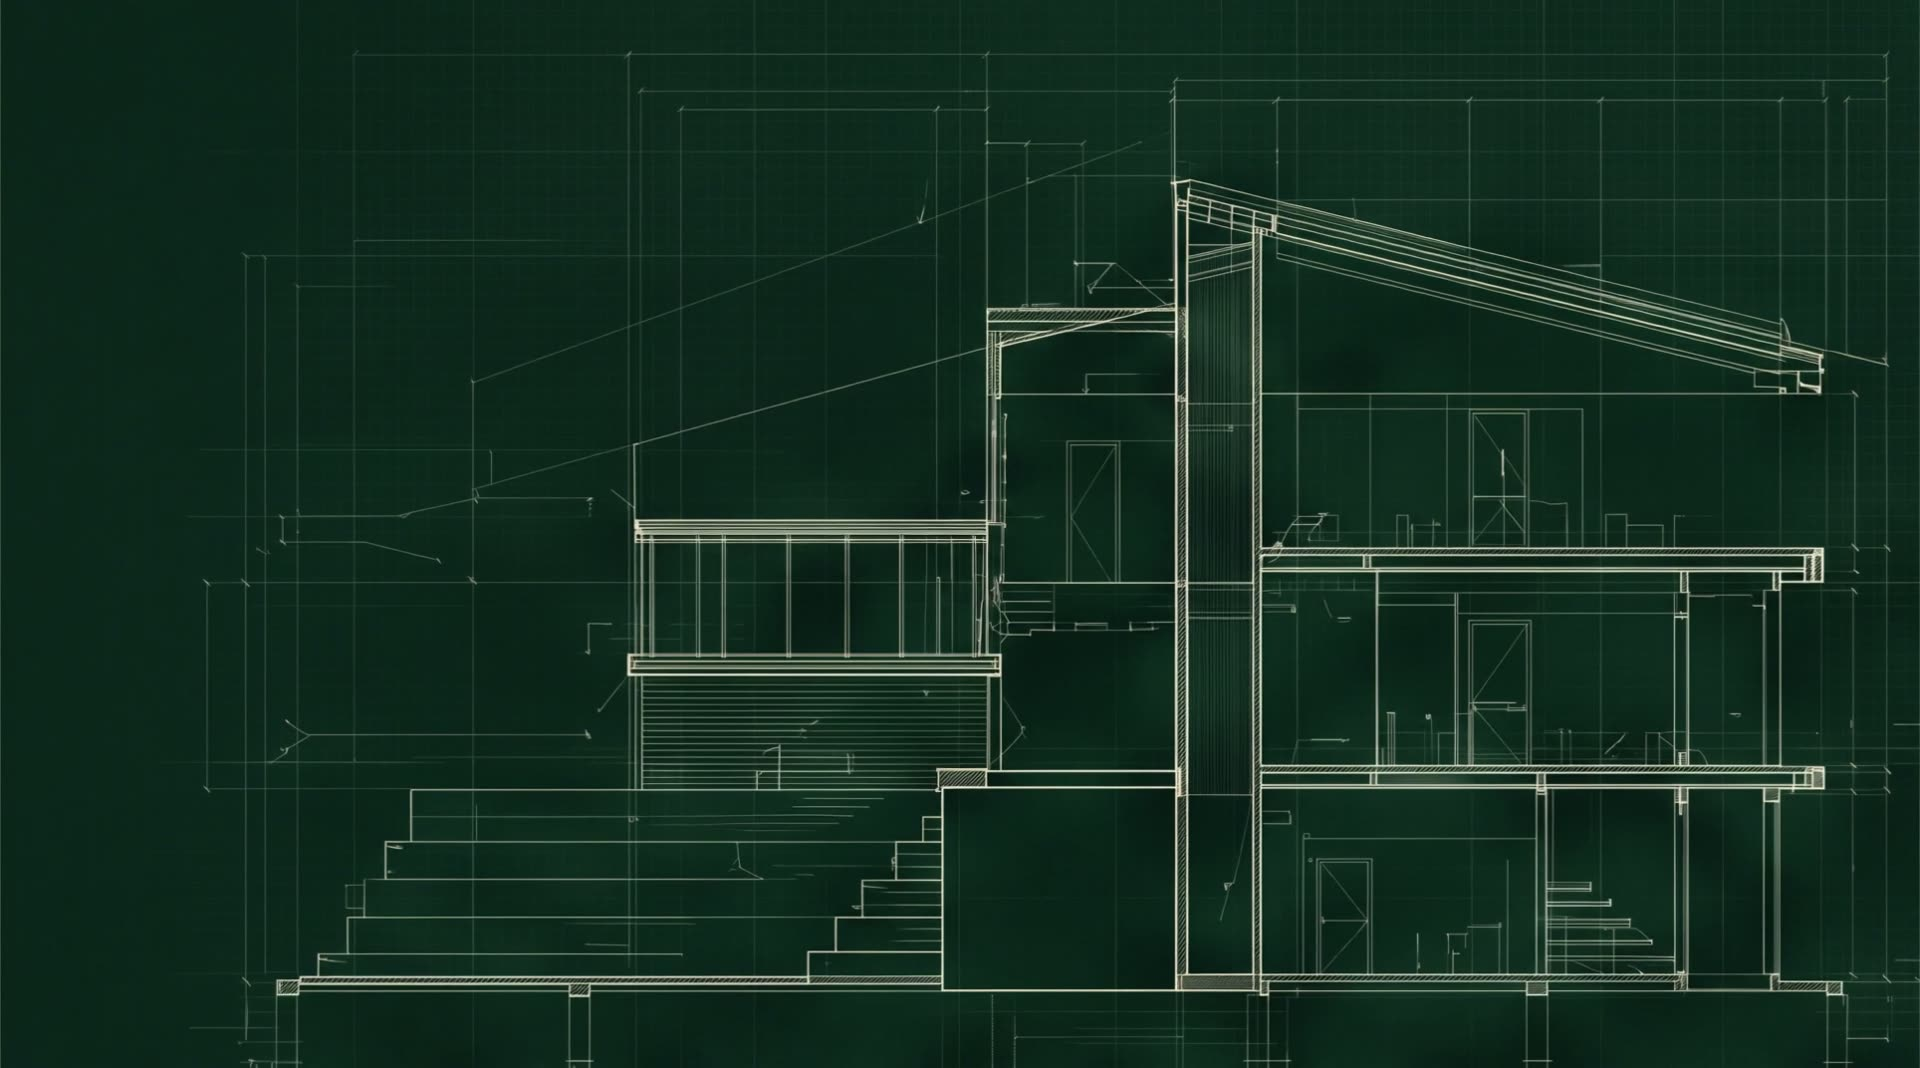
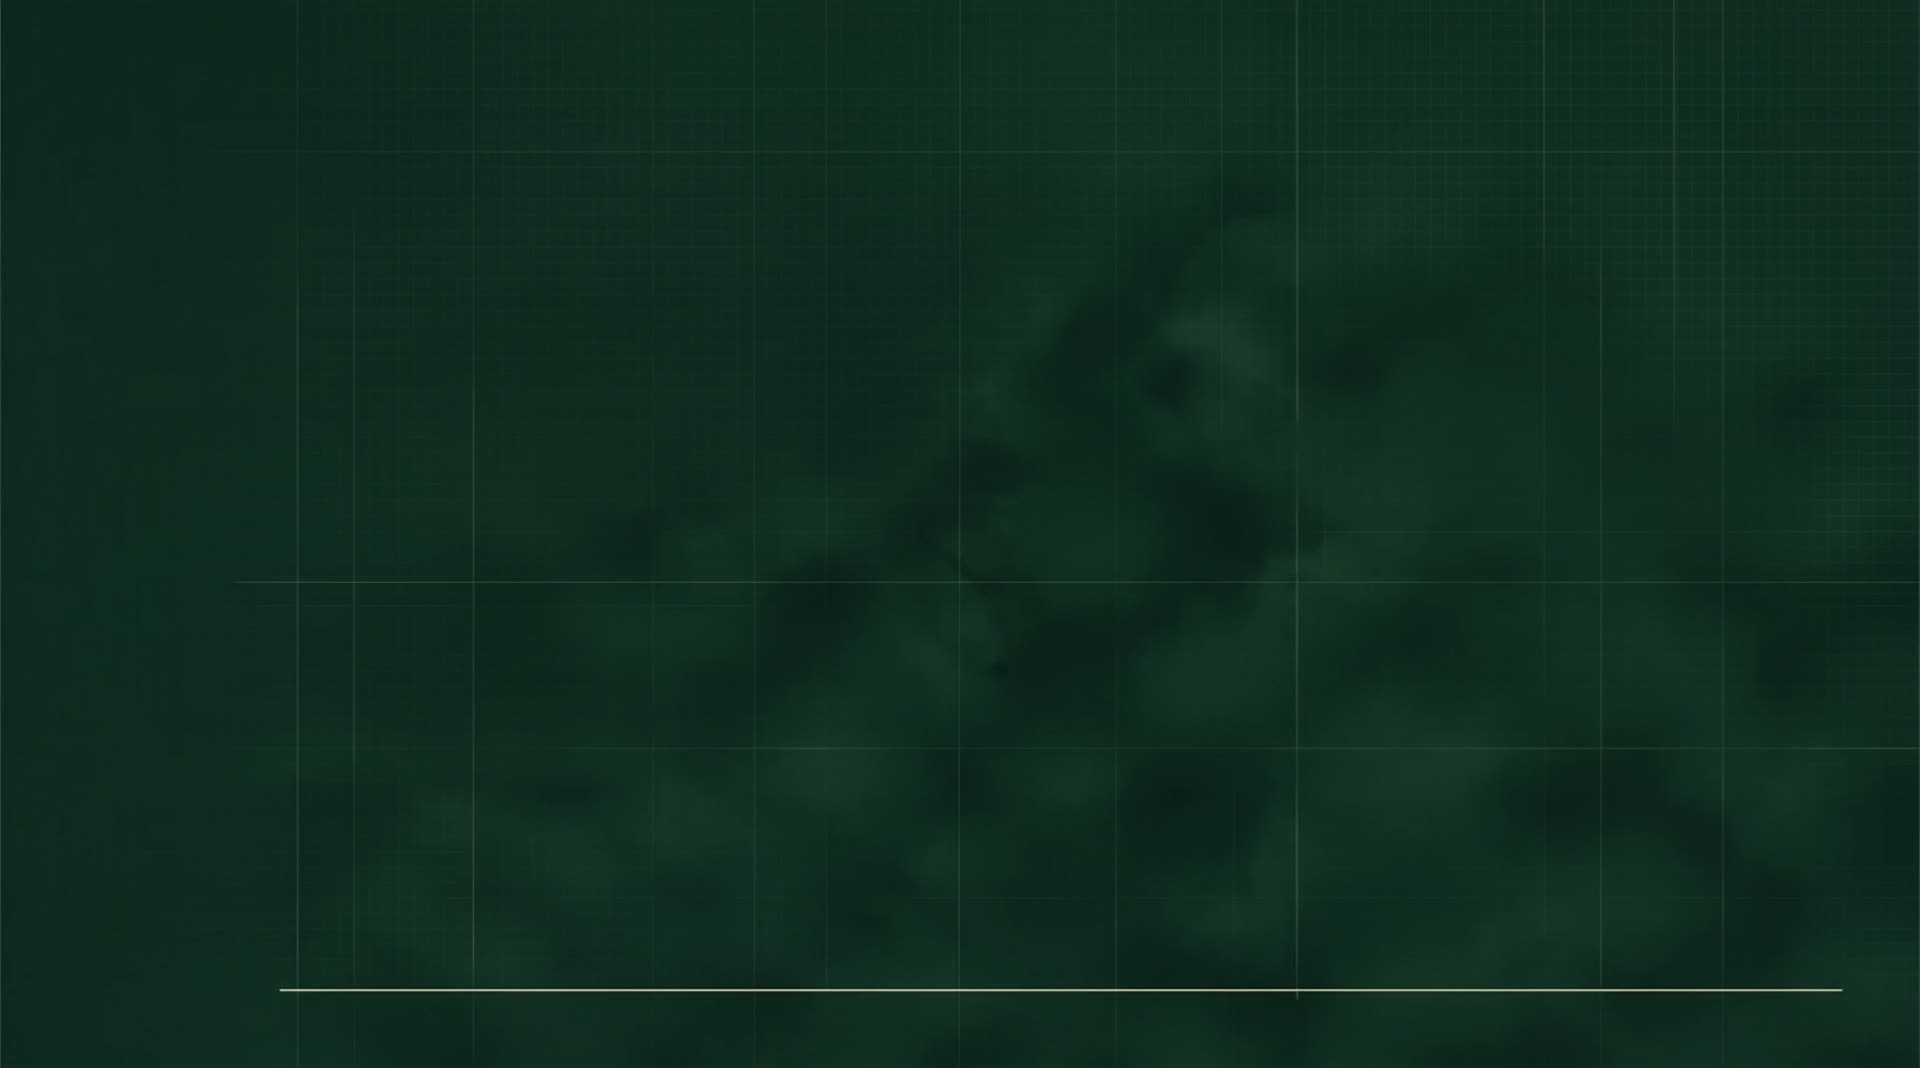
fix(intro): correctifs de la relecture de branche
Critique — ?intro=1 ne rallumait pas l'intro livrée éteinte : le test
!enabled passait avant l'override, rendant la feature injoignable alors
qu'un commentaire affirmait le contraire. Précédence corrigée et testée.

Critique — une erreur dans l'intro remontait à [locale]/error.tsx et
remplaçait la landing par un 500. Barrière d'erreur, boucles rAF
protégées, getContext 2D vérifié.

La boucle d'attente ne revient plus en arrière (le temps monte à 1,25 s
puis se fige, les crochets tournent sur place) et le bouton « passer » ne
clignote plus. Acte 4 et source vidéo verrouillés au seuil : un
canplaythrough tardif faisait reculer l'horloge, une rotation de téléphone
rechargeait le plan. Fontes ajoutées au signal « prêt ». Gouttière de
défilement réservée. Poster pris sur la première image. role=dialog.
Sortie propre si « mouvement réduit » est activé pendant la séquence.

diff --git a/src/components/landing/intro/IntroOverlay.tsx b/src/components/landing/intro/IntroOverlay.tsx
@@ -6,7 +6,7 @@ import { useTranslations } from "next-intl";
 import { markSeenThisTab } from "@/lib/intro/gate";
 import { INTRO_DURATION } from "@/lib/intro/timeline";
 import { readyVerdict } from "@/lib/intro/readiness";
-import { introFrame } from "@/lib/intro/frame";
+import { introFrame, holdTime, HOLD_AT } from "@/lib/intro/frame";
 import { introLayout } from "@/lib/intro/layout";
 import { IntroWordmark, letterProgress } from "./IntroWordmark";
 
@@ -18,8 +18,8 @@ const MonogramScene = dynamic(
   { ssr: false },
 );
 
-/** Durée d'un tour de boucle de l'acte 1, tant que les assets ne sont pas prêts. */
-const LOOP_SPAN = 2.0;
+/** Vitesse de rotation des crochets pendant l'attente, en radians par seconde. */
+const HOLD_SPIN = 1.1;
 /** Bornes de l'acte 4, pour pouvoir le sauter quand la vidéo manque. */
 const VIDEO_START = 4.4;
 const VIDEO_SPAN = 2.2;
@@ -33,6 +33,9 @@ export function IntroOverlay({ onFinish }: { onFinish: () => void }) {
   const skipRef = useRef<HTMLButtonElement>(null);
   const progressRef = useRef(0);
   const coreReadyRef = useRef(false);
+  const holdAngleRef = useRef(0);
+  /** null tant que l'acte 4 n'est pas atteint, puis verrouillé. */
+  const videoActRef = useRef<boolean | null>(null);
   const videoReadyRef = useRef(false);
   const finishRef = useRef(onFinish);
 
@@ -65,6 +68,14 @@ export function IntroOverlay({ onFinish }: { onFinish: () => void }) {
     };
     window.addEventListener("keydown", onKey);
 
+    // Le CSS cache le calque sur « mouvement réduit », mais sans ça la page
+    // resterait inerte et bloquée en défilement jusqu'à la fin de la séquence.
+    const reduced = window.matchMedia("(prefers-reduced-motion: reduce)");
+    const onReduced = () => {
+      if (reduced.matches) finish();
+    };
+    reduced.addEventListener("change", onReduced);
+
     const letters = Array.from(root.querySelectorAll<HTMLElement>("[data-letter]"));
 
     let released = false;
@@ -81,23 +92,33 @@ export function IntroOverlay({ onFinish }: { onFinish: () => void }) {
         elapsed,
       });
 
-      // L'acte 1 boucle tant que le cœur n'est pas prêt, puis le temps repart
-      // d'où il en était : la spirale ne saute pas.
+      // Le temps monte jusqu'à HOLD_AT puis se fige tant que le cœur n'est pas
+      // prêt ; les crochets continuent de tourner grâce à `holdAngleRef`. Il ne
+      // revient jamais en arrière — une boucle sur [0, 2 s) faisait repartir la
+      // spirale d'un coup au rayon de départ, et clignoter le bouton « passer ».
       let time: number;
       if (!released) {
-        const cycle = elapsed % LOOP_SPAN;
+        time = holdTime(elapsed);
+        holdAngleRef.current = Math.max(0, elapsed - HOLD_AT) * HOLD_SPIN;
         if (verdict.leaveLoop) {
           released = true;
-          releaseT = cycle;
+          releaseT = time;
           releaseAt = now;
         }
-        time = cycle;
       } else {
         time = releaseT + (now - releaseAt) / 1000;
       }
 
+      // Décision prise une fois pour toutes au seuil de l'acte 4 : si le
+      // `canplaythrough` arrivait après, l'horloge reculait de 2,2 s en pleine
+      // séquence — zoom à l'envers, mot qui réapparaît, vidéo sans fondu.
+      if (videoActRef.current === null && time >= VIDEO_START) {
+        videoActRef.current = verdict.includeVideoAct;
+      }
+      const includeVideoAct = videoActRef.current ?? verdict.includeVideoAct;
+
       // Vidéo absente : on saute l'acte 4 plutôt que de montrer un écran noir.
-      if (!verdict.includeVideoAct && time > VIDEO_START) time += VIDEO_SPAN;
+      if (!includeVideoAct && time > VIDEO_START) time += VIDEO_SPAN;
 
       progressRef.current = time;
 
@@ -107,7 +128,7 @@ export function IntroOverlay({ onFinish }: { onFinish: () => void }) {
         el.style.transform = `translateY(${(1 - p) * 0.12}em)`;
       }
 
-      const f = introFrame({ time, includeVideoAct: verdict.includeVideoAct });
+      const f = introFrame({ time, includeVideoAct });
 
       if (wordRef.current) wordRef.current.style.opacity = String(f.wordOpacity);
       if (gridRef.current) gridRef.current.style.opacity = String(f.gridOpacity);
@@ -130,13 +151,25 @@ export function IntroOverlay({ onFinish }: { onFinish: () => void }) {
         finish();
         return;
       }
-      raf = requestAnimationFrame(frame);
+      raf = requestAnimationFrame(safeFrame);
     }
-    raf = requestAnimationFrame(frame);
+
+    // Une erreur dans un rAF n'atteint aucune barrière React : plutôt que de la
+    // laisser jeter à chaque image, on rend la main à la page.
+    function safeFrame(now: number) {
+      try {
+        frame(now);
+      } catch (error) {
+        console.warn("Séquence d'ouverture interrompue après une erreur :", error);
+        finish();
+      }
+    }
+    raf = requestAnimationFrame(safeFrame);
 
     return () => {
       cancelAnimationFrame(raf);
       window.removeEventListener("keydown", onKey);
+      reduced.removeEventListener("change", onReduced);
       page?.removeAttribute("inert");
       delete doc.dataset.intro;
       doc.style.removeProperty("--intro-zoom");
@@ -151,12 +184,17 @@ export function IntroOverlay({ onFinish }: { onFinish: () => void }) {
     const apply = () => {
       const stacked = introLayout(root.clientWidth / root.clientHeight).lockup === "empile";
       root.classList.toggle("is-stacked", stacked);
+      // La source est choisie une seule fois : une rotation de téléphone
+      // pendant l'acte 4 rechargeait la vidéo, remettait currentTime à zéro et
+      // redessinait le plan depuis le premier trait, sur un nouveau
+      // téléchargement. Après le seuil, seule la classe `is-stacked` suit.
       const video = videoRef.current;
-      const src =
-        stacked || root.clientWidth < 768
-          ? "/assets/intro-construction-mobile.mp4"
-          : "/assets/intro-construction.mp4";
-      if (video && !video.currentSrc.endsWith(src)) video.src = src;
+      if (video && !video.getAttribute("src")) {
+        video.src =
+          stacked || root.clientWidth < 768
+            ? "/assets/intro-construction-mobile.mp4"
+            : "/assets/intro-construction.mp4";
+      }
     };
     const ro = new ResizeObserver(apply);
     ro.observe(root);
@@ -165,10 +203,17 @@ export function IntroOverlay({ onFinish }: { onFinish: () => void }) {
   }, []);
 
   return (
-    <div className="intro-overlay" ref={rootRef} role="presentation" aria-label={t("label")}>
+    <div
+      className="intro-overlay"
+      ref={rootRef}
+      role="dialog"
+      aria-modal="true"
+      aria-label={t("label")}
+    >
       <div className="intro-grid" ref={gridRef} />
       <MonogramScene
         progressRef={progressRef}
+        holdAngleRef={holdAngleRef}
         onReady={() => {
           coreReadyRef.current = true;
         }}

diff --git a/src/components/landing/intro/MonogramScene.tsx b/src/components/landing/intro/MonogramScene.tsx
@@ -34,11 +34,14 @@ type Props = {
   /** Temps courant dans la séquence, en secondes. Lu par la boucle de rendu :
    *  un prop numérique re-rendrait React soixante fois par seconde. */
   progressRef: React.RefObject<number>;
+  /** Angle supplémentaire accumulé pendant l'attente des assets : il fait
+   *  tourner les crochets sur place sans faire avancer la séquence. */
+  holdAngleRef: React.RefObject<number>;
   /** Appelé une fois la géométrie construite et l'environnement compilé. */
   onReady: () => void;
 };
 
-export function MonogramScene({ progressRef, onReady }: Props) {
+export function MonogramScene({ progressRef, holdAngleRef, onReady }: Props) {
   const hostRef = useRef<HTMLDivElement>(null);
   // `onReady` est gardé dans une ref pour que la scène ne se reconstruise pas
   // si l'appelant en change l'identité entre deux rendus.
@@ -127,7 +130,7 @@ export function MonogramScene({ progressRef, onReady }: Props) {
     function frame(t: number) {
       // Spirale : décalage par-dessus la position verrouillée, qui se referme.
       const e = easeInOut2(clamp(t / APPROACH, 0, 1));
-      const a = A0 + (A1 - A0) * e;
+      const a = A0 + (A1 - A0) * e + (holdAngleRef.current ?? 0);
       const r = ORBIT_R * (1 - e);
       const k = r / ORBIT_R;
       meshP.position.set(lockP.x + Math.cos(a) * r, lockP.y + Math.sin(a) * r * 0.45, 0);
@@ -166,14 +169,27 @@ export function MonogramScene({ progressRef, onReady }: Props) {
       renderer.render(scene, camera);
     }
 
+    // Une erreur levée dans un rAF n'atteint aucune barrière React : on arrête
+    // la boucle nous-mêmes plutôt que de la laisser jeter à chaque image.
     let raf = 0;
     const loop = () => {
-      frame(progressRef.current ?? 0);
+      try {
+        frame(progressRef.current ?? 0);
+      } catch (error) {
+        console.warn("Scène d'ouverture arrêtée après une erreur :", error);
+        return;
+      }
       raf = requestAnimationFrame(loop);
     };
     frame(0);
     renderer.render(scene, camera);
-    readyRef.current();
+
+    // La spec met les fontes dans le signal « prêt » : sans ça, sur connexion
+    // lente, ELIOTE s'écrit en Georgia — les six lettres dans la mauvaise
+    // fonte, au seul moment typographique de la séquence.
+    void Promise.resolve(document.fonts?.ready)
+      .catch(() => undefined)
+      .then(() => readyRef.current());
     loop();
 
     return () => {
@@ -190,7 +206,7 @@ export function MonogramScene({ progressRef, onReady }: Props) {
       renderer.dispose();
       canvas.remove();
     };
-  }, [progressRef]);
+  }, [progressRef, holdAngleRef]);
 
   return <div ref={hostRef} className="intro-scene" aria-hidden="true" />;
 }

diff --git a/src/lib/intro/frame.test.ts b/src/lib/intro/frame.test.ts
@@ -1,5 +1,5 @@
 import { describe, it, expect } from "vitest";
-import { introFrame } from "./frame";
+import { introFrame, holdTime, HOLD_AT, SKIP_AT } from "./frame";
 
 const at = (time: number, includeVideoAct = true) => introFrame({ time, includeVideoAct });
 
@@ -49,6 +49,27 @@ describe("introFrame", () => {
     expect(at(6.6).zoom).toBe(0);
     expect(at(7.4).zoom).toBeGreaterThan(0);
     expect(at(7.4).zoom).toBeLessThan(1);
+  });
+
+  // L'attente bouclait sur [0, 2 s) : à 1,99 s les crochets étaient presque
+  // verrouillés, puis repartaient d'un coup au rayon de départ. Et le bouton
+  // « passer » clignotait à chaque tour — pour le visiteur sur connexion lente,
+  // justement celui qui veut sortir.
+  it("le temps d'attente ne revient jamais en arrière", () => {
+    let last = -1;
+    for (let e = 0; e <= 6; e += 0.05) {
+      const t = holdTime(e);
+      expect(t).toBeGreaterThanOrEqual(last);
+      expect(t).toBeLessThanOrEqual(HOLD_AT);
+      last = t;
+    }
+  });
+
+  it("le bouton « passer » reste visible une fois apparu, même en attente longue", () => {
+    expect(HOLD_AT).toBeGreaterThanOrEqual(SKIP_AT);
+    for (let e = SKIP_AT; e <= 5; e += 0.05) {
+      expect(introFrame({ time: holdTime(e), includeVideoAct: true }).skipShown).toBe(true);
+    }
   });
 
   it("aucune valeur ne sort de [0,1], même hors séquence", () => {

diff --git a/src/lib/intro/gate.test.ts b/src/lib/intro/gate.test.ts
@@ -41,6 +41,20 @@ describe("shouldPlayIntro", () => {
     expect(shouldPlayIntro({ ...base, enabled: false })).toBe(false);
   });
 
+  // L'intro est livrée éteinte : si ?intro=1 ne la rallumait pas, elle serait
+  // injoignable en production et invérifiable ailleurs qu'en local.
+  it("?intro=1 rallume l'intro livrée éteinte", () => {
+    expect(shouldPlayIntro({ ...base, enabled: false, queryIntro: "1" })).toBe(true);
+    expect(shouldPlayIntro({ ...base, enabled: false, queryIntro: "1", seenThisTab: true })).toBe(
+      true,
+    );
+  });
+
+  it("?intro=0 l'emporte sur ?intro=1 absent et sur tout le reste", () => {
+    expect(shouldPlayIntro({ ...base, enabled: true, queryIntro: "0" })).toBe(false);
+    expect(shouldPlayIntro({ ...base, enabled: false, queryIntro: "0" })).toBe(false);
+  });
+
   it("reduced-motion et absence de WebGL coupent", () => {
     expect(shouldPlayIntro({ ...base, reducedMotion: true })).toBe(false);
     expect(shouldPlayIntro({ ...base, webglOk: false })).toBe(false);

diff --git a/src/lib/intro/frame.ts b/src/lib/intro/frame.ts
@@ -9,7 +9,18 @@ import { INTRO_DURATION } from "./timeline";
 
 const VIDEO_START = 4.4;
 const HERO_START = 6.6;
-const SKIP_AT = 1.2;
+export const SKIP_AT = 1.2;
+
+/** Pendant l'attente des assets, le temps monte jusqu'ici puis se fige : les
+ *  crochets continuent de tourner sur place (angle ajouté par la scène) au lieu
+ *  de revenir en arrière à chaque tour de boucle. Posé juste après l'apparition
+ *  du bouton « passer », pour qu'il ne clignote pas. */
+export const HOLD_AT = 1.25;
+
+/** Temps de la séquence pendant la phase d'attente. Monotone, borné. */
+export function holdTime(elapsed: number): number {
+  return Math.min(HOLD_AT, Math.max(0, elapsed));
+}
 
 const clamp01 = (v: number) => Math.min(1, Math.max(0, v));
 const easeInOut2 = (x: number) => (x < 0.5 ? 2 * x * x : 1 - Math.pow(-2 * x + 2, 2) / 2);

diff --git a/src/lib/intro/gate.ts b/src/lib/intro/gate.ts
@@ -18,11 +18,13 @@ export type IntroGateInput = {
 export function shouldPlayIntro(i: IntroGateInput): boolean {
   // Accessibilité et capacité d'abord : rien ne les force, pas même ?intro=1.
   if (i.reducedMotion || !i.webglOk) return false;
+  // L'interrupteur d'arrêt passe avant tout le reste.
   if (i.queryIntro === "0") return false;
-  if (!i.enabled) return false;
-  // ?intro=1 rejoue dans un onglet qui a déjà vu la séquence — c'est ce qui
-  // permet de la retester sans ouvrir un onglet neuf.
+  // ?intro=1 passe AVANT `enabled` : l'intro est livrée éteinte, et c'est le
+  // seul moyen de la montrer ou de la vérifier sans redéployer. Il rejoue aussi
+  // dans un onglet qui l'a déjà vue.
   if (i.queryIntro === "1") return true;
+  if (!i.enabled) return false;
   return !i.seenThisTab;
 }
 

diff --git a/src/components/landing/intro/IntroBoundary.tsx b/src/components/landing/intro/IntroBoundary.tsx
@@ -1,0 +1,23 @@
+"use client";
+
+import { Component, type ReactNode } from "react";
+
+// L'intro est décorative : si elle casse, elle disparaît et la landing reste.
+// Sans cette barrière, la moindre erreur dedans (création du contexte WebGL
+// refusée, chunk non chargé après un redéploiement, mémoire insuffisante)
+// remonte jusqu'à [locale]/error.tsx et remplace la page d'accueil par un 500.
+export class IntroBoundary extends Component<{ children: ReactNode }, { failed: boolean }> {
+  state = { failed: false };
+
+  static getDerivedStateFromError() {
+    return { failed: true };
+  }
+
+  componentDidCatch(error: unknown) {
+    console.warn("Séquence d'ouverture désactivée après une erreur :", error);
+  }
+
+  render() {
+    return this.state.failed ? null : this.props.children;
+  }
+}

diff --git a/src/components/landing/intro/IntroGate.tsx b/src/components/landing/intro/IntroGate.tsx
@@ -3,6 +3,7 @@
 import { useState, useSyncExternalStore } from "react";
 import { shouldPlayIntro, hasSeenThisTab } from "@/lib/intro/gate";
 import { IntroOverlay } from "./IntroOverlay";
+import { IntroBoundary } from "./IntroBoundary";
 
 /** Un contexte WebGL suffit-il à faire tourner la scène ? C'est le test
  *  minimal : il écarte les navigateurs sans WebGL, pas les GPU trop lents.
@@ -43,5 +44,9 @@ export function IntroGate() {
   const [finished, setFinished] = useState(false);
 
   if (!eligible || finished) return null;
-  return <IntroOverlay onFinish={() => setFinished(true)} />;
+  return (
+    <IntroBoundary>
+      <IntroOverlay onFinish={() => setFinished(true)} />
+    </IntroBoundary>
+  );
 }

diff --git a/src/components/landing/intro/geometry.ts b/src/components/landing/intro/geometry.ts
@@ -59,7 +59,10 @@ export function buildRGradient(stops: readonly string[]): THREE.CanvasTexture {
   canvas.width = 4;
   canvas.height = 256;
 
-  const ctx = canvas.getContext("2d")!;
+  // Null sous pression mémoire : on remonte une erreur lisible, que la barrière
+  // d'erreur du calque attrape, plutôt qu'un TypeError à la ligne suivante.
+  const ctx = canvas.getContext("2d");
+  if (!ctx) throw new Error("intro : contexte 2D indisponible pour le dégradé du R");
   const grad = ctx.createLinearGradient(0, 0, 0, 256);
   stops.forEach((c, i) => grad.addColorStop(i / (stops.length - 1), c));
   ctx.fillStyle = grad;

diff --git a/src/styles/globals.css b/src/styles/globals.css
@@ -40,6 +40,10 @@
 @layer base {
   * { box-sizing: border-box; }
   html, body { margin: 0; padding: 0; }
+  /* La gouttière reste réservée en permanence : sans ça, tout verrou de
+     défilement (la séquence d'ouverture) fait disparaître puis revenir la barre,
+     et la page entière se décale de sa largeur au moment où on la relâche. */
+  html { scrollbar-gutter: stable; }
   body {
     font-family: var(--font-sans);
     background: var(--color-paper);
